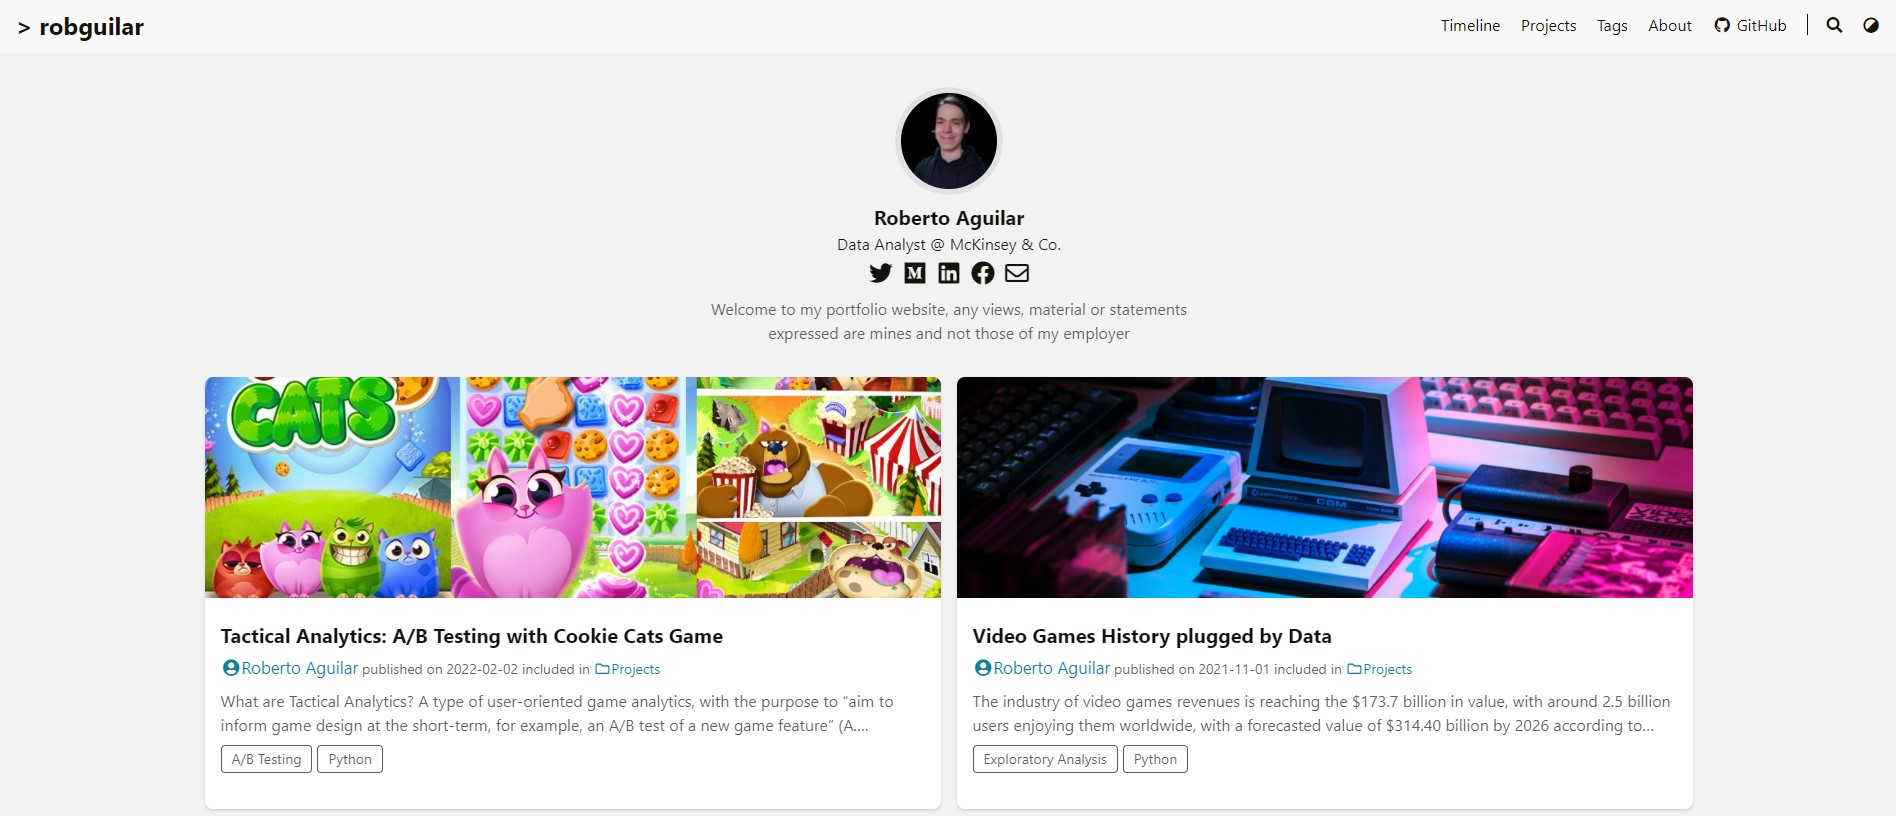
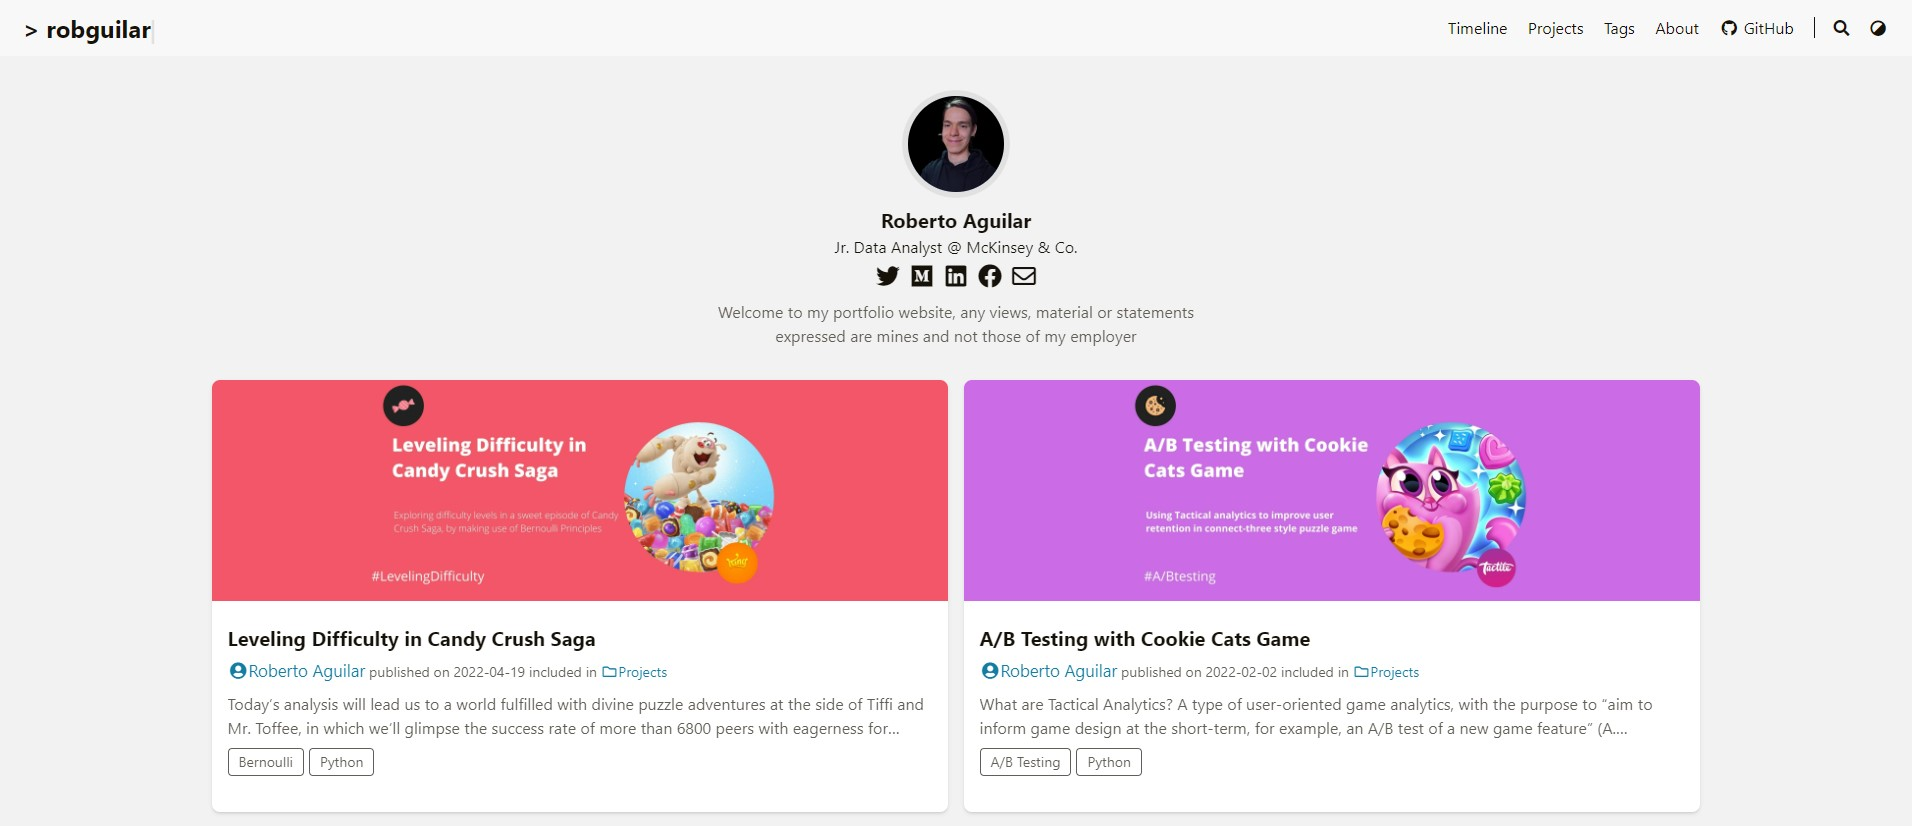
new thumbnail

diff --git a/public/posts/gcp_academicsolution/index.html b/public/posts/gcp_academicsolution/index.html
@@ -9,7 +9,7 @@
 <meta property="og:type" content="article" />
 <meta property="og:url" content="https://robguilar.com/posts/gcp_academicsolution/" /><meta property="og:image" content="https://robguilar.com/images/posts/gcp_academicsolution.jpg" /><meta property="article:section" content="posts" />
 <meta property="article:published_time" content="2021-10-04T21:57:40+08:00" />
-<meta property="article:modified_time" content="2022-04-14T12:34:57-06:00" />
+<meta property="article:modified_time" content="2022-04-19T23:57:15-06:00" />
 
 <meta name="twitter:card" content="summary_large_image"/>
 <meta name="twitter:image" content="https://robguilar.com/images/posts/gcp_academicsolution.jpg"/>
@@ -34,7 +34,7 @@
                             "width":  1977 ,
                             "height":  2014 
                         }],"genre": "posts","keywords": "Big Data, Google Cloud Services","wordcount":  186 ,
-        "url": "https:\/\/robguilar.com\/posts\/gcp_academicsolution\/","datePublished": "2021-10-04T21:57:40+08:00","dateModified": "2022-04-14T12:34:57-06:00","license": "This work is developed and posted only under Roberto's property","publisher": {
+        "url": "https:\/\/robguilar.com\/posts\/gcp_academicsolution\/","datePublished": "2021-10-04T21:57:40+08:00","dateModified": "2022-04-19T23:57:15-06:00","license": "This work is developed and posted only under Roberto's property","publisher": {
             "@type": "Organization",
             "name": "Roberto Aguilar","logo": {
                     "@type": "ImageObject",
@@ -148,8 +148,8 @@
     <div class="post-info"><div class="post-info-tag"><span><a href="https://robguilar.com/tags/big-data/">Big Data</a>
                 </span><span><a href="https://robguilar.com/tags/google-cloud-services/">Google Cloud Services</a>
                 </span></div><div class="post-info-line"><div class="post-info-mod">
-                <span>Updated on 2022-04-14&nbsp;<a class="git-hash" href="https://github.com/robguilarr/robguilar/commit/11ebc2f3deb475baf7e77a6dbe0017a0cd7d53e2" target="_blank" title="committed&nbsp;by&nbsp;robguilarr(roberto.aq@outlook.com)&nbsp;11ebc2f:&nbsp;Thumbnails Update">
-                            <i class="fas fa-hashtag fa-fw"></i>11ebc2f</a></span>
+                <span>Updated on 2022-04-19&nbsp;<a class="git-hash" href="https://github.com/robguilarr/robguilar/commit/a9c489a419052f6f4d0e400f20e03620e4f70416" target="_blank" title="committed&nbsp;by&nbsp;robguilarr(roberto.aq@outlook.com)&nbsp;a9c489a:&nbsp;New post uploaded &#43; KaTeX extension">
+                            <i class="fas fa-hashtag fa-fw"></i>a9c489a</a></span>
             </div><div class="post-info-mod"><span>
                             <a class="link-to-markdown" href="https://robguilar.com/posts/gcp_academicsolution/index.md" target="_blank">Read Markdown</a>
                         </span></div>

diff --git a/public/posts/evga/index.html b/public/posts/evga/index.html
@@ -9,7 +9,7 @@
 <meta property="og:type" content="article" />
 <meta property="og:url" content="https://robguilar.com/posts/evga/" /><meta property="og:image" content="https://robguilar.com/images/posts/evga.jpg" /><meta property="article:section" content="posts" />
 <meta property="article:published_time" content="2021-11-01T21:57:40+08:00" />
-<meta property="article:modified_time" content="2022-04-17T18:02:37-06:00" />
+<meta property="article:modified_time" content="2022-04-19T23:57:15-06:00" />
 
 <meta name="twitter:card" content="summary_large_image"/>
 <meta name="twitter:image" content="https://robguilar.com/images/posts/evga.jpg"/>
@@ -34,7 +34,7 @@
                             "width":  1977 ,
                             "height":  2014 
                         }],"genre": "posts","keywords": "Exploratory Analysis, Python","wordcount":  5358 ,
-        "url": "https:\/\/robguilar.com\/posts\/evga\/","datePublished": "2021-11-01T21:57:40+08:00","dateModified": "2022-04-17T18:02:37-06:00","license": "This work is developed and posted only under Roberto's property","publisher": {
+        "url": "https:\/\/robguilar.com\/posts\/evga\/","datePublished": "2021-11-01T21:57:40+08:00","dateModified": "2022-04-19T23:57:15-06:00","license": "This work is developed and posted only under Roberto's property","publisher": {
             "@type": "Organization",
             "name": "Roberto Aguilar","logo": {
                     "@type": "ImageObject",
@@ -1618,8 +1618,8 @@ data transformation, please visit my Github <a href="https://github.com/robguila
     <div class="post-info"><div class="post-info-tag"><span><a href="https://robguilar.com/tags/exploratory-analysis/">Exploratory Analysis</a>
                 </span><span><a href="https://robguilar.com/tags/python/">Python</a>
                 </span></div><div class="post-info-line"><div class="post-info-mod">
-                <span>Updated on 2022-04-17&nbsp;<a class="git-hash" href="https://github.com/robguilarr/robguilar/commit/b0f203149b1d82dbe8de56f23f90bfa4acc88b49" target="_blank" title="committed&nbsp;by&nbsp;robguilarr(roberto.aq@outlook.com)&nbsp;b0f2031:&nbsp;New Framework for projects">
-                            <i class="fas fa-hashtag fa-fw"></i>b0f2031</a></span>
+                <span>Updated on 2022-04-19&nbsp;<a class="git-hash" href="https://github.com/robguilarr/robguilar/commit/a9c489a419052f6f4d0e400f20e03620e4f70416" target="_blank" title="committed&nbsp;by&nbsp;robguilarr(roberto.aq@outlook.com)&nbsp;a9c489a:&nbsp;New post uploaded &#43; KaTeX extension">
+                            <i class="fas fa-hashtag fa-fw"></i>a9c489a</a></span>
             </div><div class="post-info-mod"><span>
                             <a class="link-to-markdown" href="https://robguilar.com/posts/evga/index.md" target="_blank">Read Markdown</a>
                         </span></div>

diff --git a/public/posts/ab_testing_cookiecats/index.html b/public/posts/ab_testing_cookiecats/index.html
@@ -9,7 +9,7 @@
 <meta property="og:type" content="article" />
 <meta property="og:url" content="https://robguilar.com/posts/ab_testing_cookiecats/" /><meta property="og:image" content="https://robguilar.com/images/posts/ab_testing_cookiecats.jpg" /><meta property="article:section" content="posts" />
 <meta property="article:published_time" content="2022-02-02T21:57:40+08:00" />
-<meta property="article:modified_time" content="2022-04-17T18:02:37-06:00" />
+<meta property="article:modified_time" content="2022-04-19T23:57:15-06:00" />
 
 <meta name="twitter:card" content="summary_large_image"/>
 <meta name="twitter:image" content="https://robguilar.com/images/posts/ab_testing_cookiecats.jpg"/>
@@ -34,7 +34,7 @@
                             "width":  1977 ,
                             "height":  2014 
                         }],"genre": "posts","keywords": "A\/B Testing, Python","wordcount":  2928 ,
-        "url": "https:\/\/robguilar.com\/posts\/ab_testing_cookiecats\/","datePublished": "2022-02-02T21:57:40+08:00","dateModified": "2022-04-17T18:02:37-06:00","license": "This work is developed and posted only under Roberto's property","publisher": {
+        "url": "https:\/\/robguilar.com\/posts\/ab_testing_cookiecats\/","datePublished": "2022-02-02T21:57:40+08:00","dateModified": "2022-04-19T23:57:15-06:00","license": "This work is developed and posted only under Roberto's property","publisher": {
             "@type": "Organization",
             "name": "Roberto Aguilar","logo": {
                     "@type": "ImageObject",
@@ -844,8 +844,8 @@
     <div class="post-info"><div class="post-info-tag"><span><a href="https://robguilar.com/tags/a/b-testing/">A/B Testing</a>
                 </span><span><a href="https://robguilar.com/tags/python/">Python</a>
                 </span></div><div class="post-info-line"><div class="post-info-mod">
-                <span>Updated on 2022-04-17&nbsp;<a class="git-hash" href="https://github.com/robguilarr/robguilar/commit/b0f203149b1d82dbe8de56f23f90bfa4acc88b49" target="_blank" title="committed&nbsp;by&nbsp;robguilarr(roberto.aq@outlook.com)&nbsp;b0f2031:&nbsp;New Framework for projects">
-                            <i class="fas fa-hashtag fa-fw"></i>b0f2031</a></span>
+                <span>Updated on 2022-04-19&nbsp;<a class="git-hash" href="https://github.com/robguilarr/robguilar/commit/a9c489a419052f6f4d0e400f20e03620e4f70416" target="_blank" title="committed&nbsp;by&nbsp;robguilarr(roberto.aq@outlook.com)&nbsp;a9c489a:&nbsp;New post uploaded &#43; KaTeX extension">
+                            <i class="fas fa-hashtag fa-fw"></i>a9c489a</a></span>
             </div><div class="post-info-mod"><span>
                             <a class="link-to-markdown" href="https://robguilar.com/posts/ab_testing_cookiecats/index.md" target="_blank">Read Markdown</a>
                         </span></div>

diff --git a/public/posts/candy_crush_difficulty/index.html b/public/posts/candy_crush_difficulty/index.html
@@ -9,7 +9,7 @@
 <meta property="og:type" content="article" />
 <meta property="og:url" content="https://robguilar.com/posts/candy_crush_difficulty/" /><meta property="og:image" content="https://robguilar.com/images/posts/candy_crush_difficulty.jpg" /><meta property="article:section" content="posts" />
 <meta property="article:published_time" content="2022-04-19T21:57:40+08:00" />
-<meta property="article:modified_time" content="2022-04-19T21:57:40+08:00" />
+<meta property="article:modified_time" content="2022-04-19T23:57:15-06:00" />
 
 <meta name="twitter:card" content="summary_large_image"/>
 <meta name="twitter:image" content="https://robguilar.com/images/posts/candy_crush_difficulty.jpg"/>
@@ -34,7 +34,7 @@
                             "width":  1977 ,
                             "height":  2014 
                         }],"genre": "posts","keywords": "Bernoulli, Python","wordcount":  2637 ,
-        "url": "https:\/\/robguilar.com\/posts\/candy_crush_difficulty\/","datePublished": "2022-04-19T21:57:40+08:00","dateModified": "2022-04-19T21:57:40+08:00","license": "This work is developed and posted only under Roberto's property","publisher": {
+        "url": "https:\/\/robguilar.com\/posts\/candy_crush_difficulty\/","datePublished": "2022-04-19T21:57:40+08:00","dateModified": "2022-04-19T23:57:15-06:00","license": "This work is developed and posted only under Roberto's property","publisher": {
             "@type": "Organization",
             "name": "Roberto Aguilar","logo": {
                     "@type": "ImageObject",
@@ -736,7 +736,8 @@ for whole episode:  9.889123140886191e-10 %
     <div class="post-info"><div class="post-info-tag"><span><a href="https://robguilar.com/tags/bernoulli/">Bernoulli</a>
                 </span><span><a href="https://robguilar.com/tags/python/">Python</a>
                 </span></div><div class="post-info-line"><div class="post-info-mod">
-                <span>Updated on 2022-04-19</span>
+                <span>Updated on 2022-04-19&nbsp;<a class="git-hash" href="https://github.com/robguilarr/robguilar/commit/a9c489a419052f6f4d0e400f20e03620e4f70416" target="_blank" title="committed&nbsp;by&nbsp;robguilarr(roberto.aq@outlook.com)&nbsp;a9c489a:&nbsp;New post uploaded &#43; KaTeX extension">
+                            <i class="fas fa-hashtag fa-fw"></i>a9c489a</a></span>
             </div><div class="post-info-mod"><span>
                             <a class="link-to-markdown" href="https://robguilar.com/posts/candy_crush_difficulty/index.md" target="_blank">Read Markdown</a>
                         </span></div>
